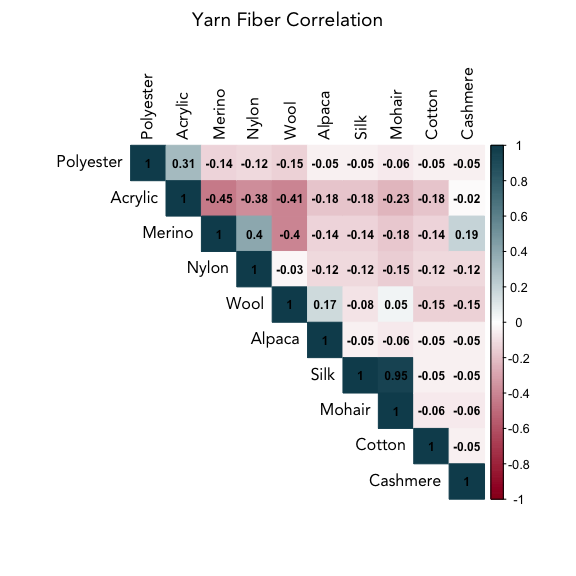
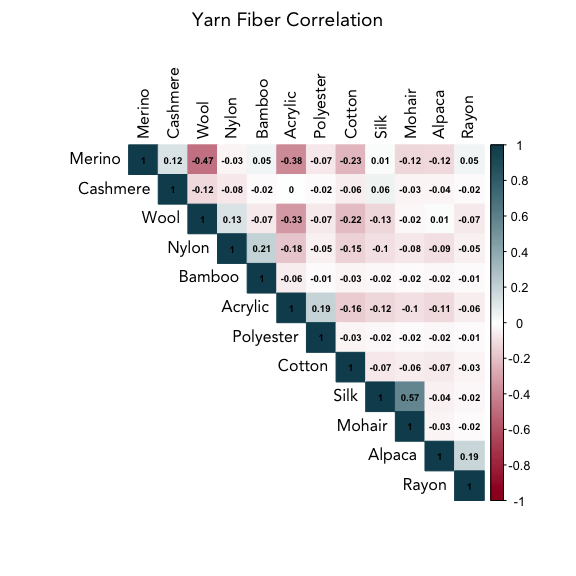
update example

Changed region(s): [[0.0938, 0.125, 0.9375, 0.875], [0.875, 0.3125, 0.9062, 0.3438]]

diff --git a/man/example_files/example_eda.md b/man/example_files/example_eda.md
@@ -13,8 +13,8 @@ source('../../../kp_themes/theme_kp.R')
 Start by retrieving a sample of patterns for babies and their details.
 
 ``` r
-patterns <- search_patterns(page_size = 200, fit = 'baby')
-pattern_details <- get_patterns(ids = patterns$id[1:10])
+patterns <- search_patterns(page_size = 100, fit = 'baby')
+pattern_details <- get_patterns(ids = patterns$id)
 ```
 
 Top 10 designers by pattern count in sample:
@@ -31,16 +31,16 @@ patterns %>%
     ## # A tibble: 10 x 2
     ##    designer.name         n
     ##    <chr>             <int>
-    ##  1 tincanknits          34
-    ##  2 PetiteKnit           13
-    ##  3 Lisa Chemery          8
-    ##  4 Purl Soho             6
-    ##  5 Anna Dervout          5
-    ##  6 Andrea Mowry          4
-    ##  7 Georgie Nicolson      3
-    ##  8 Kelly van Niekerk     3
-    ##  9 Stephanie Lotven      3
-    ## 10 Tanis Lavallee        3
+    ##  1 tincanknits          26
+    ##  2 PetiteKnit            5
+    ##  3 Purl Soho             4
+    ##  4 Anna Dervout          3
+    ##  5 Andrea Mowry          2
+    ##  6 DMC                   2
+    ##  7 Emily Dormier         2
+    ##  8 Helen Stewart         2
+    ##  9 Kelly van Niekerk     2
+    ## 10 Lisa Chemery          2
 
 Look at the density of comments based on the cost of the pattern:
 
@@ -78,8 +78,8 @@ pattern_details %>%
 Start by retrieving a sample of yarns and their details.
 
 ``` r
-yarns <- search_yarn(page_size = 200)
-yarn_details <- get_yarns(ids = yarns$id[20:40])
+yarns <- search_yarn(page_size = 100)
+yarn_details <- get_yarns(ids = yarns$id)
 ```
 
 Get the top rated yarns in the sample:
@@ -92,13 +92,13 @@ yarns %>%
 ```
 
     ## # A tibble: 5 x 3
-    ##      id name            rating_average
-    ##   <int> <chr>                    <dbl>
-    ## 1 65530 Primo Fingering           4.87
-    ## 2 94256 Merino DK                 4.83
-    ## 3 36329 Yowza                     4.83
-    ## 4 54983 Pashmina                  4.81
-    ## 5 62569 Rios                      4.8
+    ##      id name         rating_average
+    ##   <int> <chr>                 <dbl>
+    ## 1 54983 Pashmina               4.81
+    ## 2 62569 Rios                   4.8 
+    ## 3 55637 Tosh Vintage           4.8 
+    ## 4 46836 Rasta                  4.8 
+    ## 5 74654 Arroyo                 4.79
 
 How do fiber types appear together in yarn?
 
@@ -114,7 +114,7 @@ yarn_details %>%
                      order = 'hclust', 
                      tl.col = 'black', 
                      addCoef.col = 'black',
-                     number.cex = 0.75,
+                     number.cex = 0.6,
                      col = colorRampPalette(colors = c(
                        kp_cols('red'), 
                        'white', 
